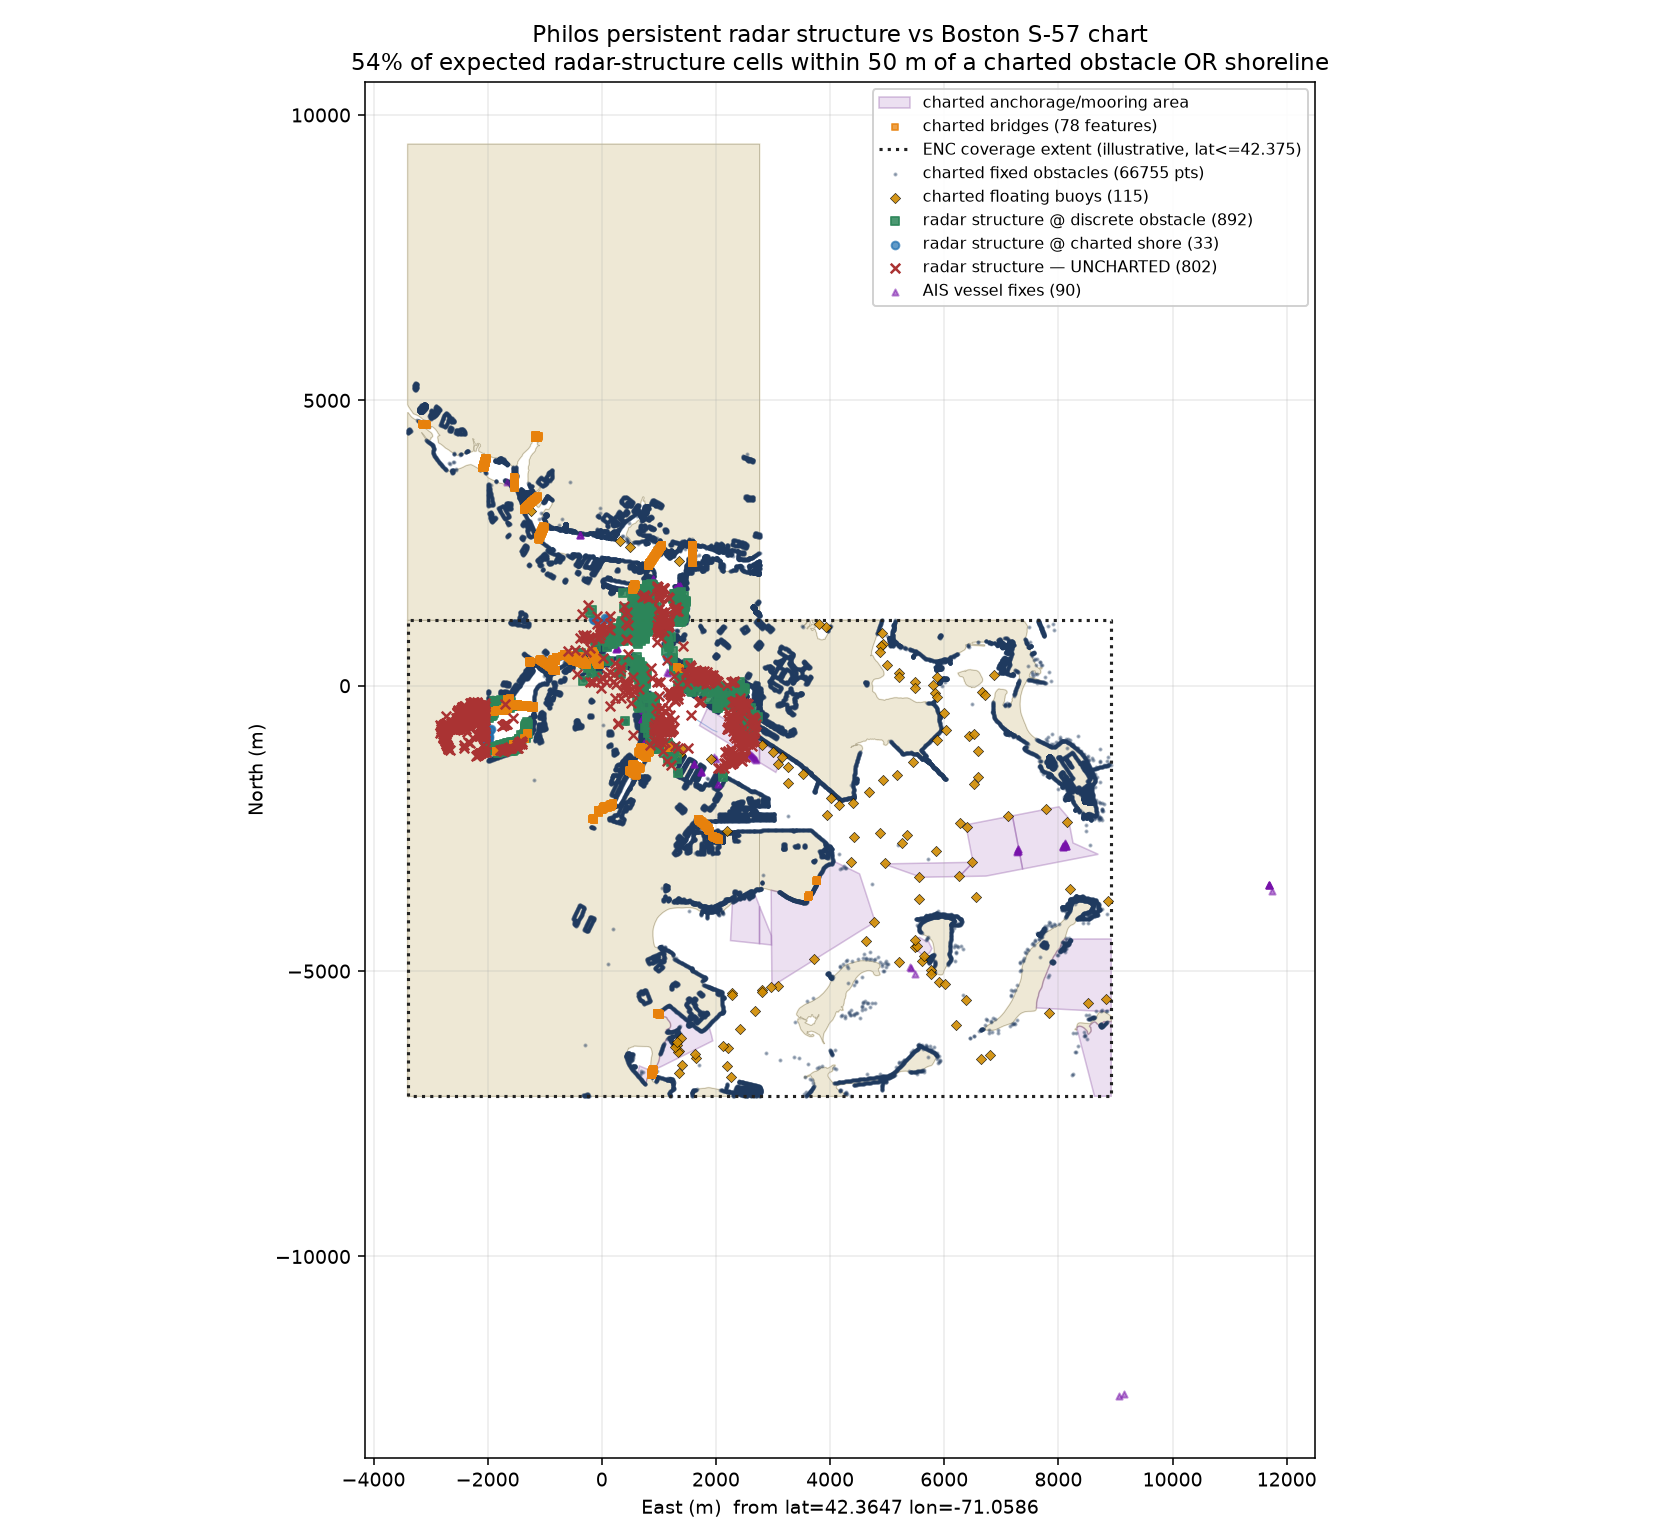
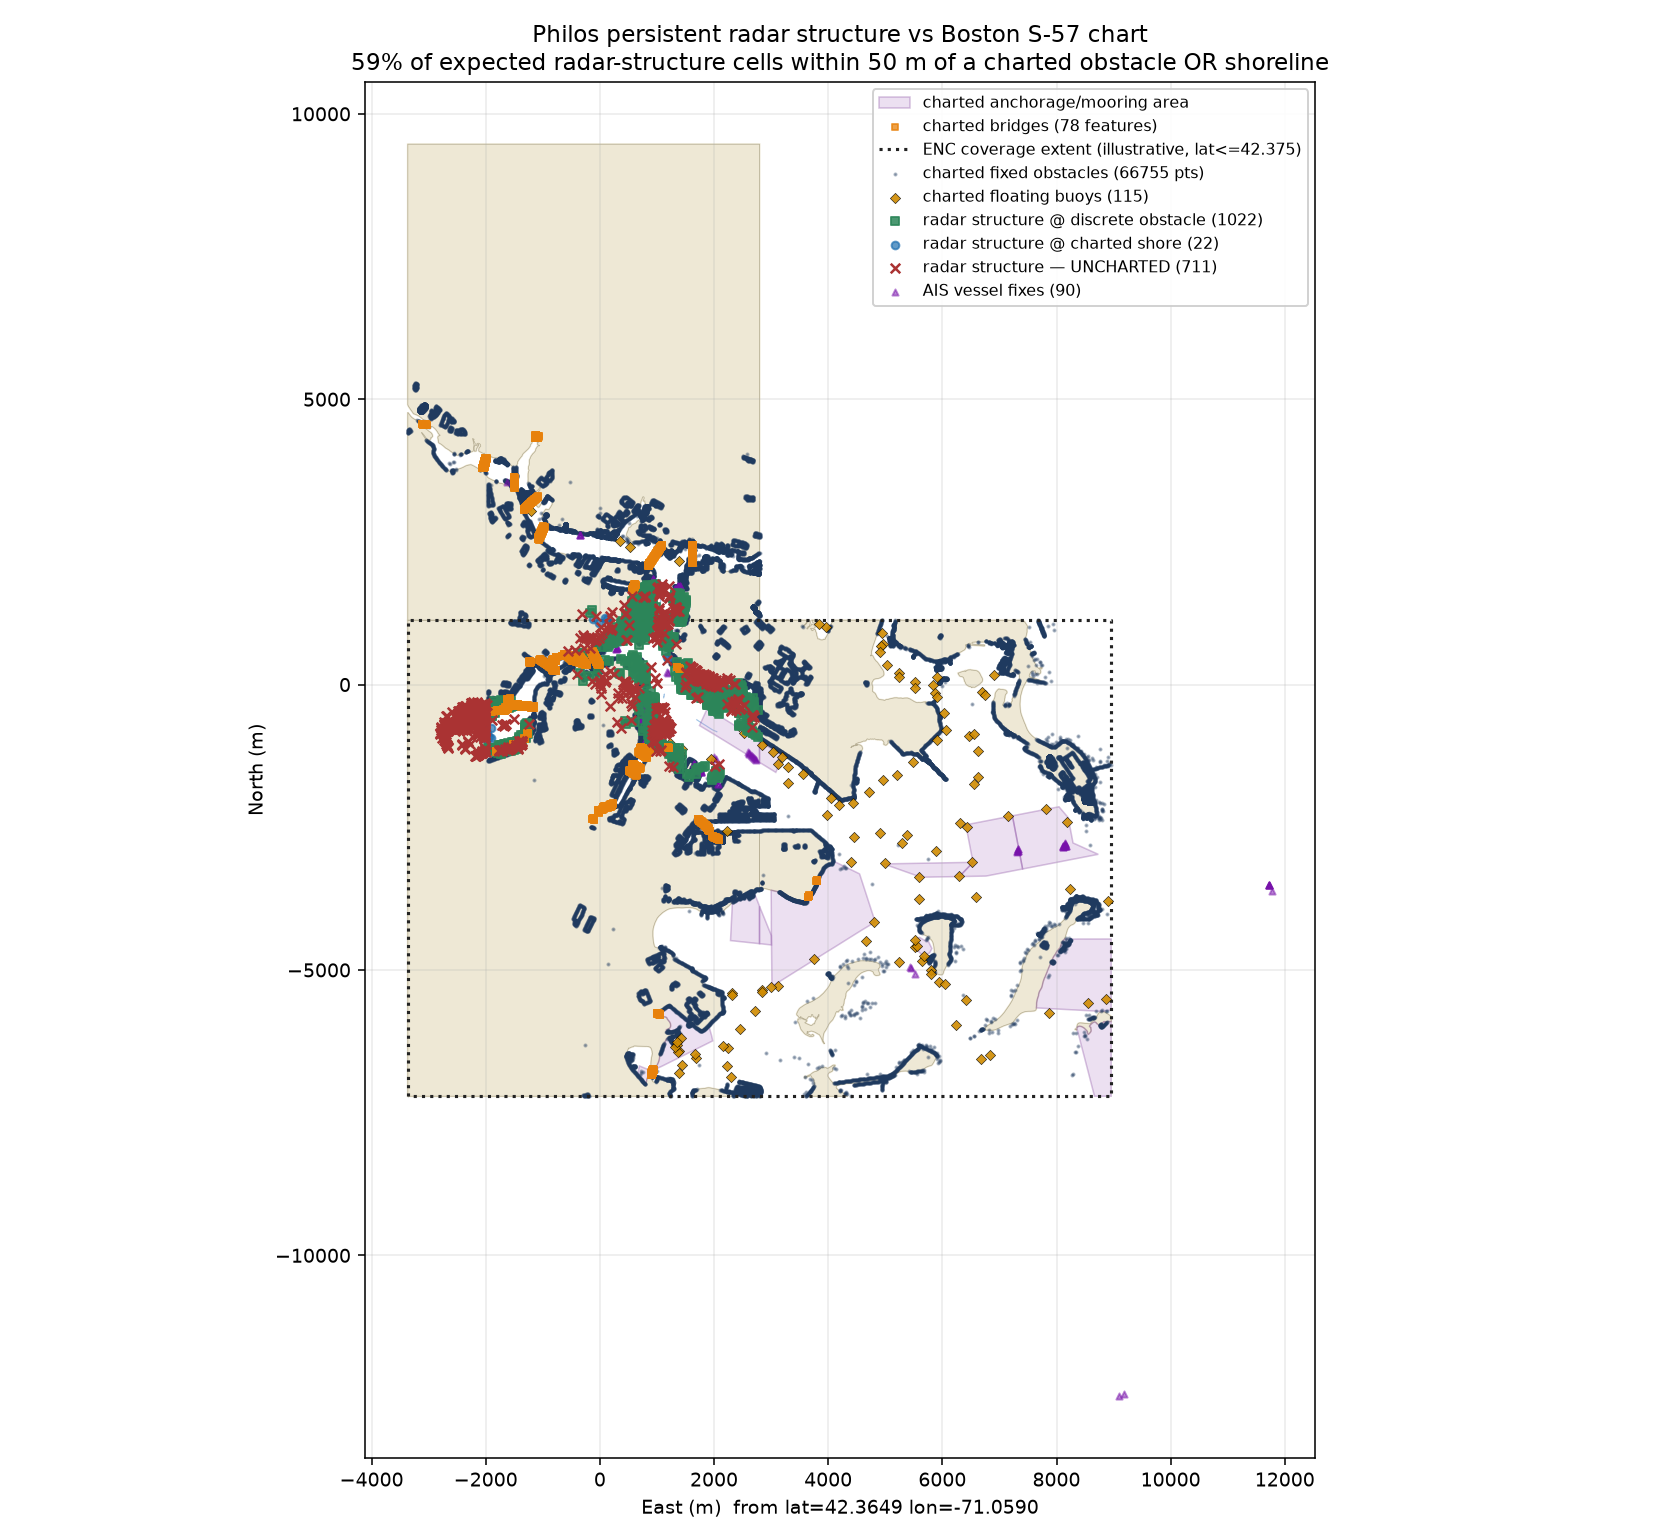
fix(fixtures): repair car_carrier_near rotated-clip extraction + fail-loud guard; redo R4
R8.8 code-half. The 2020 car_carrier_near philos extraction fell back to a
sparse 0.2 Hz /gnss decoy and emitted a heading=0 placeholder, rotating every
world-projected radar return by the true heading (~300deg).

extract_section.py (local, gitignored — camera-bearing precedent):
- position from the single densest NavSatFix topic present (/sensor/gps/fix on
  the 2020 bag), never a merge; /filter/positionlla fallback only if no NavSatFix
- heading from attitude quaternion (heading = (90 - yaw_ENU) mod 360) when no
  direct heading topic exists; verified vs /xsens_heading (0.2deg) and
  /philos/sbg_heading (~2.2deg) on ais_ferry_near
- fail-loud guard (ownship_integrity_errors): hard-errors before writing if
  heading is constant or row rate < 1 Hz; check_ownship.py sweeps all clips

Re-extracted: 8739 rows, heading 287.9-304.2deg (was 26 rows @ 0.0). Guard
FAILS on the old broken output, PASSES on all seven clips. Deterministic
re-run reproduces the recorded checksum.

R4 chart re-check (charts/philos_chart_coverage.py, PNG regenerated): rotated
returns had scattered into ~824 spurious cells; corrected, UNION@50m coverage
53.6->59.5% (cells), the historical ~49.5% figure superseded. The in-coverage
UNKNOWN at (42.3583,-71.0464) SURVIVES — car_carrier now gives a persistent
longspan cluster there (16 returns/25m over 87% of the clip), not the prior
weak coincidence.

Tracked artifacts: regenerated coverage PNG + eval-log entry with emitted-file
[…]

diff --git a/docs/algorithms/evaluation-log.md b/docs/algorithms/evaluation-log.md
@@ -39,6 +39,100 @@ single-knob isolation. **Net: no shipped accuracy result was ever load-bearing
 on radartruth independence** — the good outcome. Detail:
 `docs/baselines/2026-07-06_philos_farcross.md`.
 
+## 2026-07-06 — DATA INTEGRITY: `car_carrier_near` rotated-clip fix + fail-loud extractor guard + R4 chart re-check [measurement integrity]
+
+**The bug (established 2026-07-03, R8.8).** `tests/fixtures/philos/out/
+car_carrier_near/` (2020-10-22 bag) had `heading_deg = 0.000` constant and
+only **26 own-ship rows over 120 s** (0.22 Hz). `extract_section.py`'s topic
+lists were written for the 2022 bags: they matched the 2020 bag's sparse
+0.2 Hz `/gnss` decoy for position, found no `Vector3Stamped` heading topic,
+and emitted a `0.0` heading placeholder. Every world-projected radar return
+from the clip was therefore rotated about own-ship by the true heading
+(GPS course ≈ 300°). The bag actually carries dense streams the old lists
+missed: `/sensor/gps/fix` (72 Hz NavSatFix), `/filter/positionlla` (59 Hz),
+`/filter/quaternion` + `/imu/data` (59 Hz attitude).
+
+**Extractor fix + fail-loud guard.** `extract_section.py` now (a) takes
+position from the *single densest* NavSatFix topic present (never a merge,
+so a sparse decoy can't dilute a dense source), `/filter/positionlla`
+(Vector3Stamped `x=lat,y=lon`) only if no NavSatFix exists; (b) derives
+heading from the attitude quaternion `heading = (90 − yaw_ENU) mod 360`
+when no direct heading topic exists. The quaternion convention was verified
+on `ais_ferry_near`, which carries **both** sources: quaternion-derived
+heading equals `/xsens_heading` to **0.2°** (same Xsens filter) and
+`/philos/sbg_heading` to **~2.2°** (known SBG/Xsens inter-unit offset).
+(c) A guard `ownship_integrity_errors` runs *before any file is written* and
+hard-errors — naming the clip and offending series, no placeholder CSV — if
+heading has ≤1 distinct value OR row rate < 1 Hz over the clip span. This is
+the exact failure class that produced the rotated clip; it is now
+impossible to repeat silently. `check_ownship.py --all` runs the same guard
+over every existing `out/*/ownship.csv`. **Demonstrated:** guard FAILS
+loudly on the stashed broken output (0.217 Hz + constant 0.0, both checks
+fire) and PASSES on all seven clips post-fix.
+
+**Re-extraction result.** `car_carrier_near`: **8739 own-ship rows** (72 Hz
+from `/sensor/gps/fix` — denser than the ticket's ~7k estimate, which
+assumed the 59 Hz positionlla), heading **287.9–304.2°, 2179 distinct**,
+consistent with GPS course ≈ 300°. Position source `/sensor/gps/fix`,
+heading source `/filter/quaternion (quaternion yaw)` (recorded in
+`meta.txt`). AIS = **0 rows** (expected — see AIS note). Projection sanity:
+the radar-return centroid world bearing rotates **59.8° → 359.8°** (the
+~300° heading, i.e. the corruption undone) and median distance-to-charted-
+shore drops **121 m → 50 m** (returns-within-100 m-of-shore 44% → 64%) —
+returns now land on the Boston shoreline as near-shore harbour radar must.
+
+Emitted-file sha256 (tracked drift-guard; fixtures are gitignored):
+```
+ownship.csv 6ee33be5d2a5524261c4d16fe731b67afa2dd5325f1e95abced0a0c4330915a2  (8739 rows)
+ais.csv     19899e5e258cb8899be2ea1acee8152bc054169fe7508ad0105bf3c33d22b2be  (0 rows)
+meta.txt    d5a2fbba6aaa019fcedac250fc72bddfbbc19ac25e7464bcc8759812177d5248
+```
+(`radar_plots.csv`, 5117 rows, unchanged — `extract_radar.py` untouched.)
+
+**R4 chart-corroboration re-check** (`charts/philos_chart_coverage.py`,
+pools all 7 clips; car_carrier's rotated cells had contaminated it).
+Before → after (broken vs corrected car_carrier ownship; PNG regenerated):
+
+| metric | before (broken) | after (corrected) |
+|---|---|---|
+| occupied 25 m cells | 6620 | 5796 |
+| expected fixed-structure cells | 1727 | 1755 |
+| obstacles ≤50 m (cells / by-plots) | 51.7% / 48.6% | 58.2% / 52.5% |
+| shoreline ≤50 m (cells) | 39.8% | 45.4% |
+| UNION ≤50 m (cells / by-plots) | 53.6% / 50.0% | 59.5% / 53.5% |
+| UNION ≤75 m (cells / by-plots) | 61.4% / 56.5% | 67.0% / 60.2% |
+
+The rotation had scattered car_carrier's returns into ~824 spurious cells;
+correcting concentrates them onto charted structure/shore, so coverage
+*rises* across the board. The historical R4 headline "**~49.5% chart-
+confirmed structure mass**" (eval-log 2026-07-04 entry, line ~726) was
+computed with the contaminated clip and maps to the *before* UNION@50 m
+by-plots (50.0%); the corrected figure is **~53.5%**. The qualitative claim
+(chart owns the single largest measured target) is unchanged and slightly
+strengthened; the 2026-07-04 entry's `~49.5%` is left as the dated record,
+superseded by this entry.
+
+**The in-coverage UNKNOWN at (42.3583, −71.0464) SURVIVES** — overturning
+the ticket's prior assumption that only `ais_ferry_far` validly supported
+it. Under the broken heading it was a weak 2-clip coincidence (1 + 1
+instantaneous returns). Under corrected geometry `car_carrier_near`
+contributes a **persistent longspan cluster** there: 16 returns within 25 m
+spanning **105 s / 121 s (87%)** of the clip (was 9 returns / 40 s). So the
+cell now qualifies as an expected fixed-structure cell on car_carrier alone
+(longspan) plus the ais_ferry_far return, and remains uncharted + in-
+coverage. The correction did not dissolve the UNKNOWN — it firmed it up.
+It stays a genuine candidate for the occlusion / satellite-resolution pass.
+
+**Standing AIS note.** The 2020 (`car_carrier_near`) and 2021 (`sunset_
+cruise`, prodromos) philos campaigns carry **NO AIS at all** (no receiver
+in the bag — `car_carrier_near` ais.csv is empty from 0 N2K sentences).
+The AIS-veto's real-data validation must therefore come from **HAXR**, not
+philos.
+
+**Suite:** untouched — this is Python fixture tooling + docs only, no C++,
+no config struct, no defaults; the C++ test suite and the integration-guide
+config-coverage test are unaffected.
+
 ## 2026-07-06 — Philos `ais_ferry_far` + `almost_cross` measurement pass (pre-water Tier-2 #10) [Cl-3]
 
 Measurement-only pass on the two released philos clips (held-out duty discharged